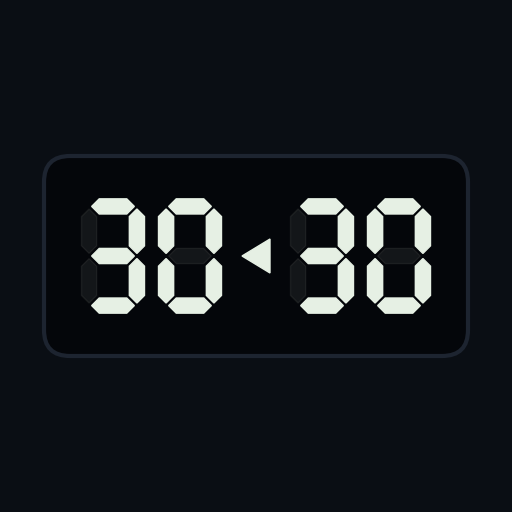
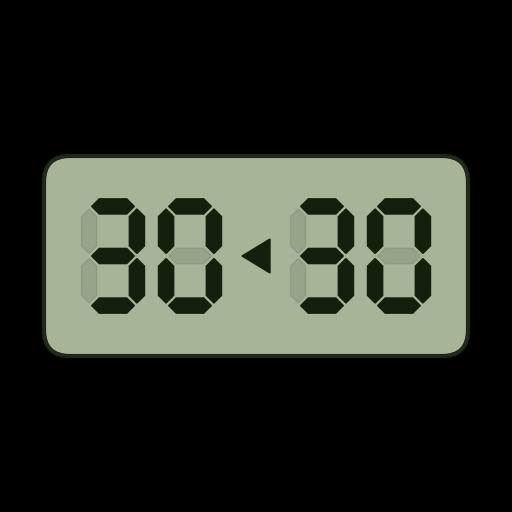
Give the display face a liquid-crystal finish
The glass goes back to the grey-green of a real chess clock LCD, with
dark segments on it and a faint diagonal reflection; the case around it
stays black. Idle side is faded rather than backlit differently, so the
backing reads as one uninterrupted panel the way a real one does.

diff --git a/index.html b/index.html
@@ -22,25 +22,30 @@ html,body{height:100%;margin:0;background:#000;color:#fff;overflow:hidden;
   padding-top:env(safe-area-inset-top);padding-bottom:env(safe-area-inset-bottom)}
 
 /* ── 筐体とベゼル ───────────────────────── */
-#case{flex:1;min-height:0;margin:10px 10px 4px;padding:9px;
-  background:linear-gradient(#171d25,#0d1219);border-radius:18px;
-  box-shadow:inset 0 1px 0 rgba(255,255,255,.06),0 8px 22px rgba(0,0,0,.6)}
-#panel{height:100%;display:flex;align-items:stretch;
-  background:#04060a;border-radius:11px;padding:8px 10px;
-  box-shadow:inset 0 2px 9px rgba(0,0,0,.9),inset 0 0 0 1px rgba(255,255,255,.05)}
+/* 外枠は黒。中の表示面だけを液晶らしく見せる */
+#case{flex:1;min-height:0;margin:10px 10px 4px;padding:11px;
+  background:linear-gradient(#0b0d10,#000);border-radius:18px;
+  box-shadow:inset 0 1px 0 rgba(255,255,255,.05),0 8px 22px rgba(0,0,0,.7)}
+#panel{height:100%;position:relative;overflow:hidden;display:flex;align-items:stretch;
+  border-radius:8px;padding:8px 10px;
+  background:linear-gradient(168deg,#b6c3a6 0%,#a6b497 46%,#9aa98c 100%);
+  box-shadow:inset 0 3px 11px rgba(18,28,12,.42),inset 0 0 0 1px rgba(0,0,0,.4)}
+/* ガラス面のわずかな映り込み */
+#panel::after{content:'';position:absolute;inset:0;pointer-events:none;
+  background:linear-gradient(104deg,rgba(255,255,255,.13) 0%,rgba(255,255,255,.04) 36%,rgba(255,255,255,0) 58%)}
 
 .pane{flex:1;min-width:0;display:flex;align-items:center;justify-content:center;
-  cursor:pointer;opacity:.3;transition:opacity .15s ease}
-.pane.pre{opacity:.5}
+  cursor:pointer;opacity:.4;transition:opacity .15s ease}
+.pane.pre{opacity:.6}
 .pane.run{opacity:1}
 #mid{flex:0 0 13%;min-width:34px;display:flex;align-items:center;justify-content:center;opacity:.9}
 .pane svg,#mid svg{width:100%;height:100%;display:block}
 
 /* ── セグメント ─────────────────────────── */
-.seg{fill:#e6f0e4}
-.seg.off{opacity:.055}
-.pane.low .seg{fill:#ffa46b}
-.pane.flag .seg{fill:#ff5f5f}
+.seg{fill:#151f0e}
+.seg.off{opacity:.085}
+.pane.low .seg{fill:#8a1d12}
+.pane.flag .seg{fill:#a81414}
 .pane.run .colon{animation:blink 1s step-end infinite}
 .pane.flag{animation:flash 1.1s step-end infinite}
 @keyframes blink{50%{opacity:.08}}

diff --git a/sw.js b/sw.js
@@ -1,5 +1,5 @@
 /* Chess Clock — offline cache */
-const CACHE = 'chess-clock-v5';
+const CACHE = 'chess-clock-v6';
 const ASSETS = ['./', './index.html', './manifest.webmanifest', './icon-180.png', './icon-512.png'];
 
 self.addEventListener('install', e => {

diff --git a/make-icon.py b/make-icon.py
@@ -27,10 +27,10 @@ PTS = {"a": hs(yT, xL, xR), "g": hs(yM, xL, xR), "d": hs(yB, xL, xR),
 SEG = {"0": "abcdef", "1": "bc", "2": "abged", "3": "abgcd", "4": "fbgc",
        "5": "afgcd", "6": "afgecd", "7": "abc", "8": "abcdefg", "9": "abfgcd", " ": ""}
 
-BG   = "#0a0e14"   # case
-LCD  = "#04060a"   # display glass
-LIT  = "#e6f0e4"   # lit segment
-OFF  = 0.07        # ghost opacity
+BG   = "#000000"   # case — black frame
+LCD  = "#a6b497"   # display glass — liquid crystal green-grey
+LIT  = "#151f0e"   # lit segment
+OFF  = 0.10        # ghost opacity
 
 
 def digits(ax, s, ox, oy, sc):
@@ -59,7 +59,7 @@ def render(px, path):
     X0, X1, Y0, GH = 44, 468, 156, 200
     ax.add_patch(FancyBboxPatch((X0, Y0), X1 - X0, GH,
                                 boxstyle="round,pad=0,rounding_size=26",
-                                facecolor=LCD, edgecolor="#1d2430", lw=3, zorder=1))
+                                facecolor=LCD, edgecolor="#20281c", lw=3, zorder=1))
 
     # two two-digit groups with a centre gap for the arrow — positions derived,
     # so the digits can never collide with each other or with the arrow
